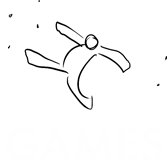
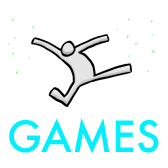
Early version artwork. Links fixed.

diff --git a/index.html b/index.html
@@ -7,7 +7,7 @@
 	<style>
 
 		body {
-			background-color:#ccb4d6;
+			background-color:#b7aabc;
 			margin:0;
 		}
 
@@ -122,25 +122,25 @@
 	<img src="Images/headerWideTest.png">
 </div>
 <div class="links">
-	<a class="but" href="http://twitter.com/joshuajumbles">
-	  	<img class="bottom" src="Images/gamesButtonOn.png">
-	  	<img class="top"    src="Images/gamesButtonOff.png">
-	</a>
 	<a class="but" href="https://joshuajumbles.itch.io/">
-	  	<img class="bottom" src="Images/gamesButtonOn.png">
-	  	<img class="top"    src="Images/gamesButtonOff.png">
+	  	<img class="bottom" src="Images/Button_GamesOn.png">
+	  	<img class="top"    src="Images/Button_GamesOff.png">
 	</a>
-	<a class="but" href="https://managore.tumblr.com/">
-	  	<img class="bottom" src="Images/gamesButtonOn.png">
-	  	<img class="top"    src="Images/gamesButtonOff.png">
+	<a class="but" href="https://www.youtube.com/channel/UC-ZGkangM4NekvKyBFU1Cvw">
+	  	<img class="bottom" src="Images/Button_VidsOn.png">
+	  	<img class="top"    src="Images/Button_VidsOff.png">
 	</a>
-	<a class="but" href="https://managore.tumblr.com/">
-	  	<img class="bottom" src="Images/gamesButtonOn.png">
-	  	<img class="top"    src="Images/gamesButtonOff.png">
+	<a class="but" href="http://twitter.com/joshuajumbles">
+	  	<img class="bottom" src="Images/Button_TwitsOn.png">
+	  	<img class="top"    src="Images/Button_TwitsOff.png">
 	</a>
-	<a class="but" href="https://managore.tumblr.com/">
-	  	<img class="bottom" src="Images/gamesButtonOn.png">
-	  	<img class="top"    src="Images/gamesButtonOff.png">
+	<a class="but" href="https://www.tumblr.com/blog/monsterspree/">
+	  	<img class="bottom" src="Images/Button_PicsOn.png">
+	  	<img class="top"    src="Images/Button_PicsOff.png">
+	</a>
+	<a class="but" href="https://www.linkedin.com/in/joshua-safran-88b42a36/">
+	  	<img class="bottom" src="Images/Button_BizOn.png">
+	  	<img class="top"    src="Images/Button_BizOff.png">
 	</a>
 </div>
 
